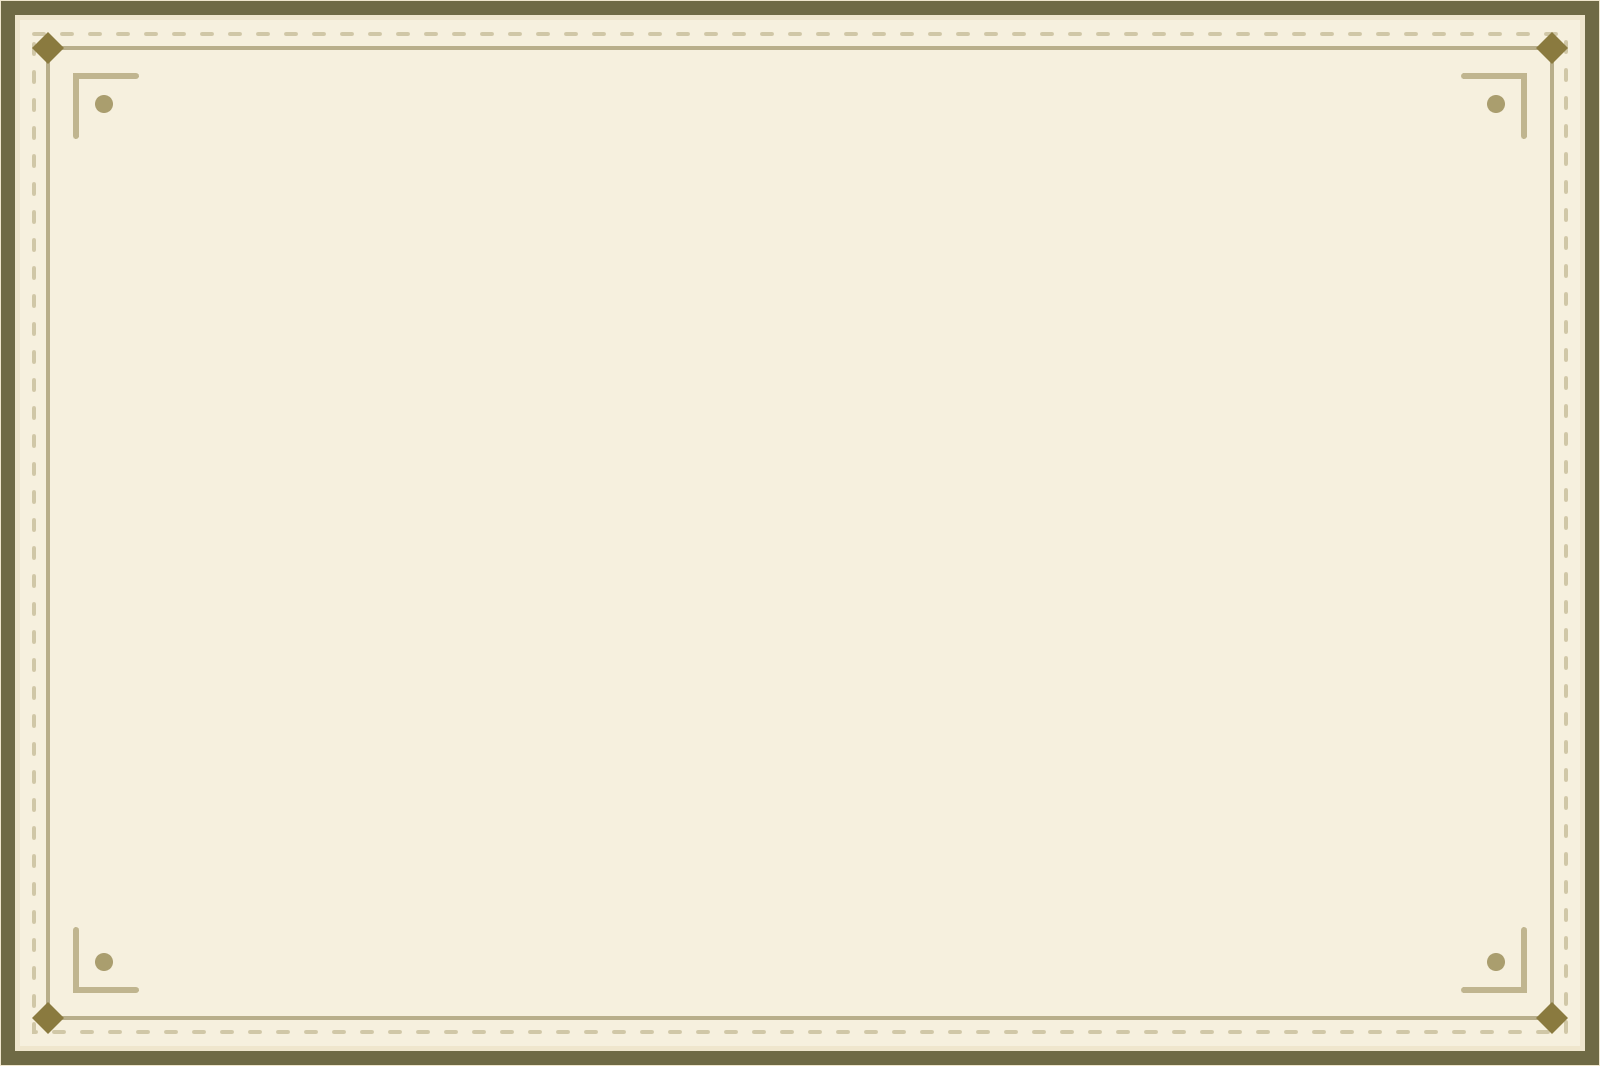
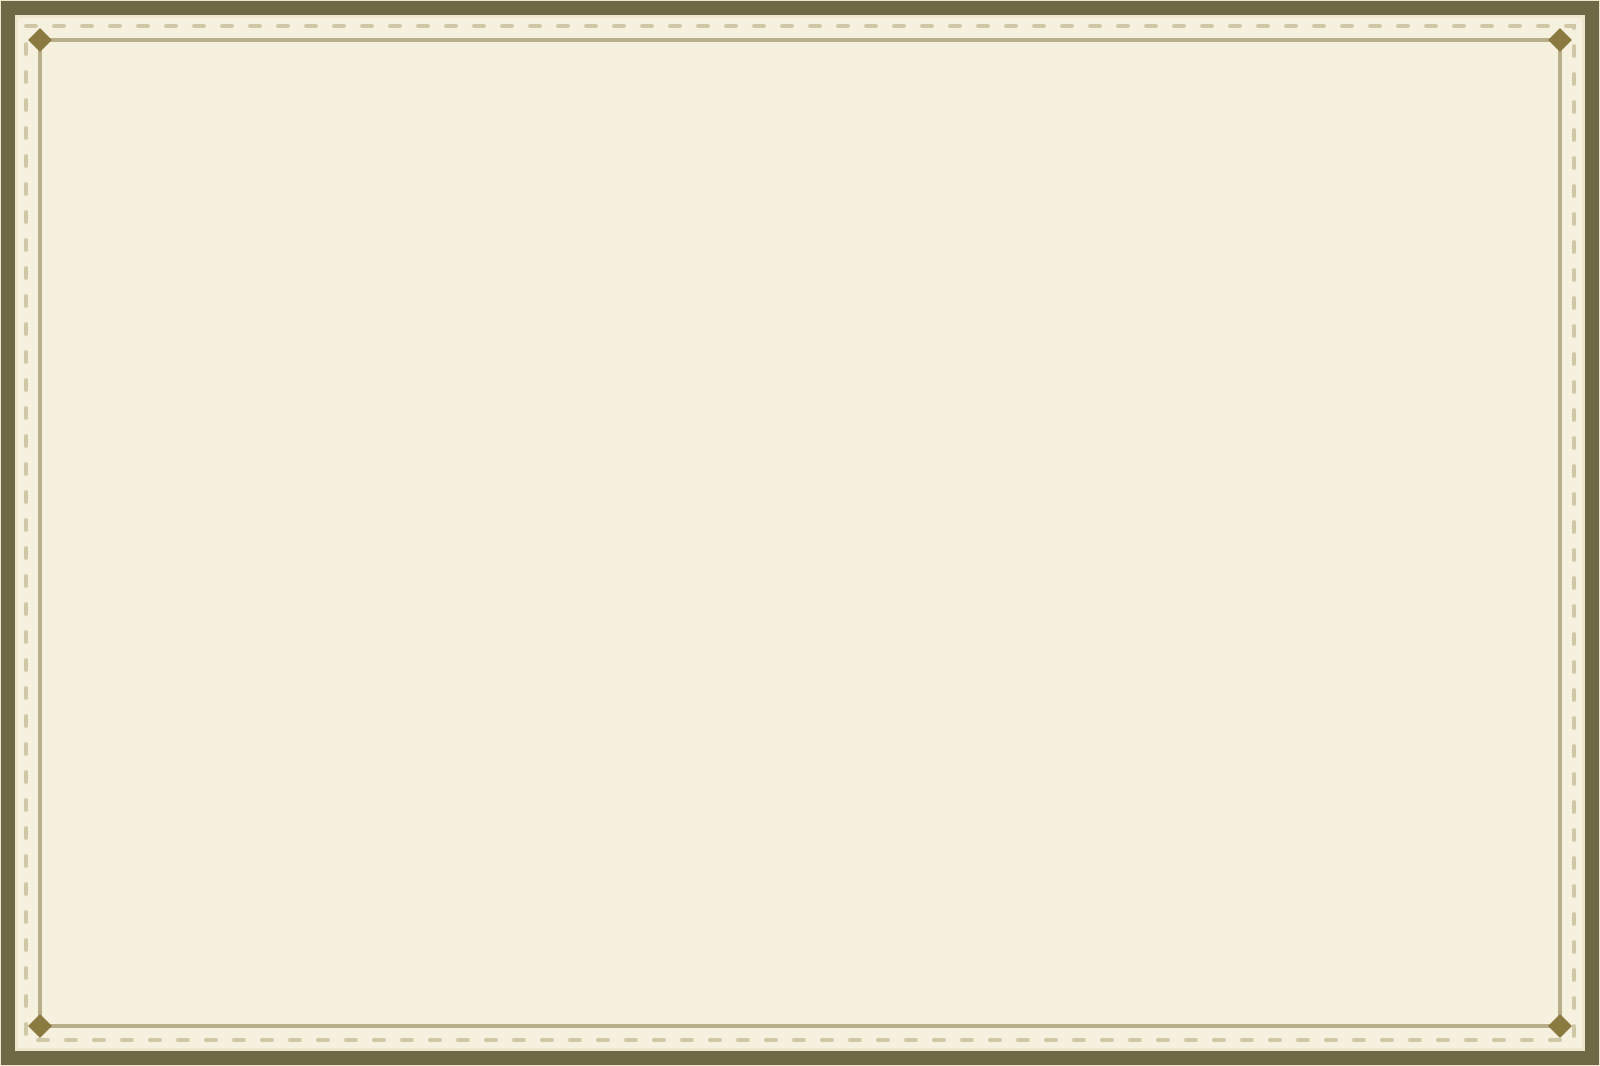
fix(practice): 卡框的花纹收回边缘，不再压到题面
纸框原来把角括号画在 64px 切片里 38px 的位置，切片缩到 40px 边框宽后这几
笔正好落到题面的位置上——题号、句子和选项都压在线上。

现在框上的东西全部收在距边 20px 以内：外圈实线、虚线缝线、一道发丝线、四角
小菱形，没有伸进中间的角括号；同时把边框加宽到 40px、内边距调到 26px，题面
与框之间留出干净的空白。窄屏下边框 28px。文章纸同步加宽到 34px。

Changed region(s): [[0.0, 0.031, 1.0, 0.9906]]

diff --git a/frontend/src/controls.css b/frontend/src/controls.css
@@ -5000,14 +5000,14 @@ html[data-theme='night'] .personal-workspace .emblem--seal:not(.is-earned) .embl
   background-clip: padding-box;
   box-shadow: none;
   border-style: solid;
-  border-width: 30px;
+  border-width: 40px;
   border-image-source: var(--rune-paper-card);
   border-image-slice: 64 fill;
-  border-image-width: 30px;
+  border-image-width: 40px;
   border-image-repeat: stretch;
   border-color: transparent;
   border-radius: 0;
-  padding: 0 16px;
+  padding: 4px 26px 6px;
 }
 
 /* The reading passage gets its own sheet, same stock, laid out wide.
@@ -5019,10 +5019,10 @@ html[data-theme='night'] .personal-workspace .emblem--seal:not(.is-earned) .embl
   background-clip: padding-box;
   box-shadow: none !important;
   border-style: solid !important;
-  border-width: 24px !important;
+  border-width: 34px !important;
   border-image-source: var(--rune-paper-card) !important;
   border-image-slice: 64 fill !important;
-  border-image-width: 24px !important;
+  border-image-width: 34px !important;
   border-image-repeat: stretch !important;
   border-color: transparent !important;
   border-radius: 0 !important;
@@ -5143,7 +5143,7 @@ html[data-theme='night'] .member-practice-page .practice-question-card .practice
   .member-practice-page .practice-question-card.practice-question-card--fill_blank,
   .member-practice-page .practice-question-card.practice-question-card--reading,
   .member-practice-page .practice-question-card.practice-question-card--translation {
-    border-width: 22px; border-image-width: 22px;
+    border-width: 28px; border-image-width: 28px;
   }
   .member-practice-session-page .practice-article-panel,
   .member-practice-page .practice-article-panel {
